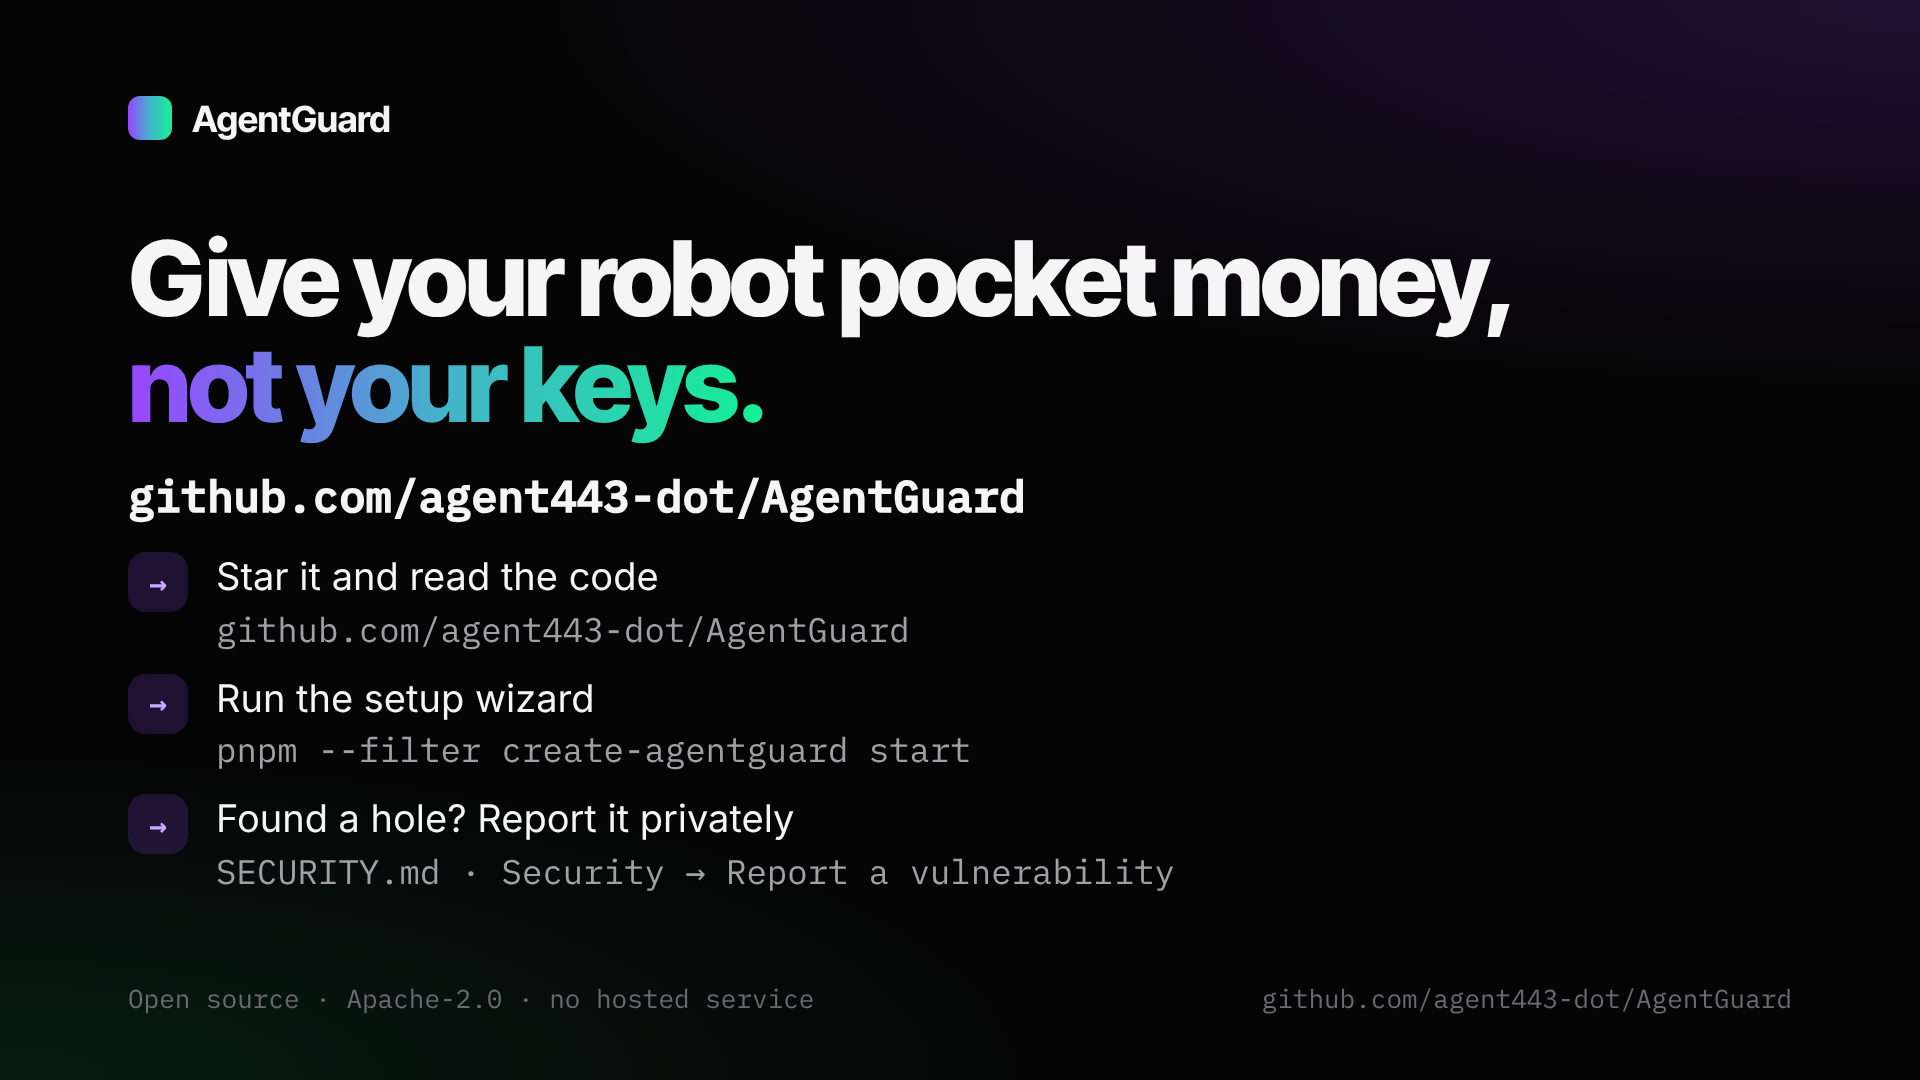
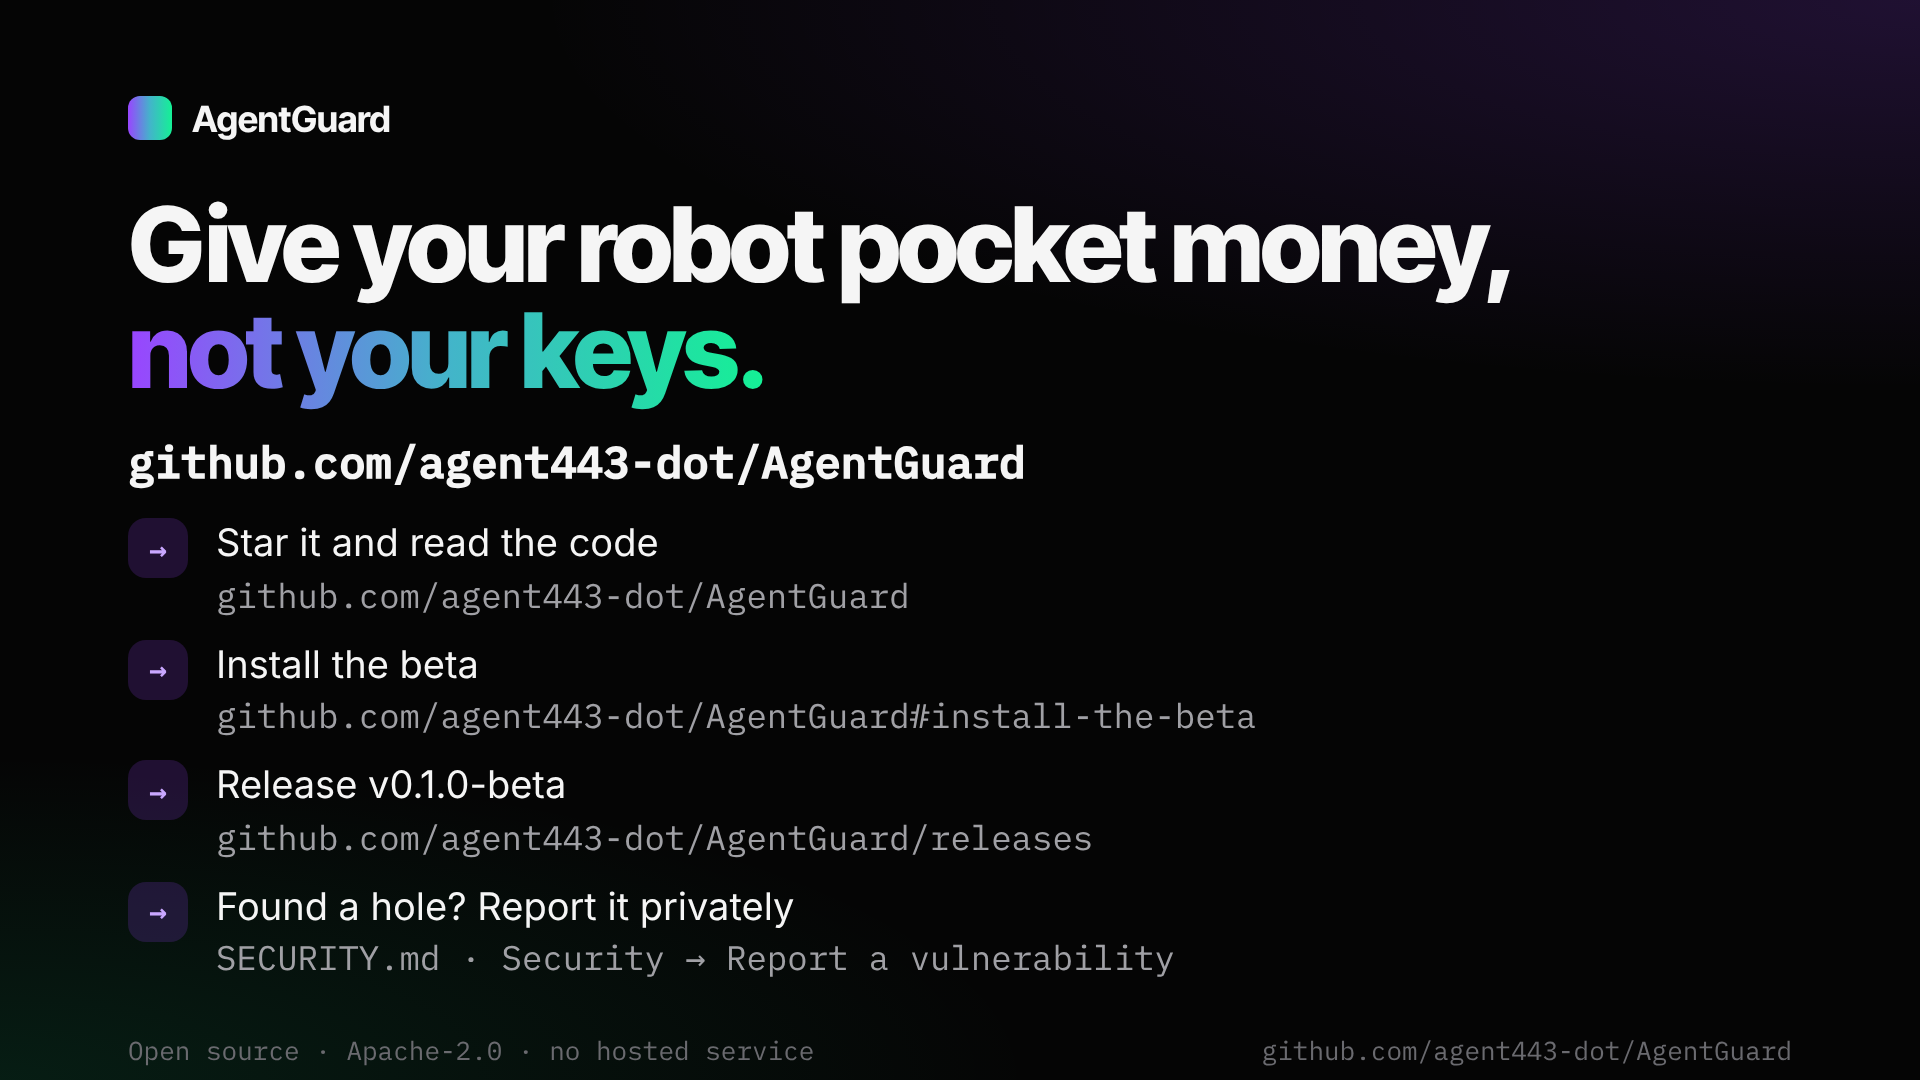
docs(content): how-to video for the public beta v0.1.0-beta
No external audit yet, start small (cap 20, at most 50), install and
release links, receipts marked optional, images re-rendered from main.

Claude-Session: https://claude.ai/code/session_01JbATMytMNnHUL4QXAAVvGh

diff --git a/marketing/videos/how-to.md b/marketing/videos/how-to.md
@@ -7,7 +7,7 @@
 | Format        | Horizontal 16:9, 1920×1080 master; vertical 9:16 cut from the same edit                      |
 | Length        | about 2:40                                                                                   |
 | Presenter     | None. Voice only, over futuristic visuals and real product screens                           |
-| Facts as of   | `main` at `04c0e0c` (2026-11-09): live on Robinhood Chain and Solana, Base next              |
+| Facts as of   | `main` at `4f4ee3f`, release `v0.1.0-beta` (2026-11-09): public beta, live on Robinhood Chain and Solana, Base next, no external audit yet |
 | Status        | ready to produce                                                                             |
 
 ## The idea: a boot sequence
@@ -53,7 +53,7 @@ Shield one. Your rules. How much per payment. How much per day. Which websites. 
 
 Shield two. A practice run. Before any money moves, I play the payment in a practice world, to see what it would really do. Not what the robot says it does.
 
-Shield three. Your yes. A big payment? Your phone lights up on Telegram. You say yes, or no. If the price suddenly jumps, or the payee changes, I ask you too.
+Shield three. Your yes. A big payment? Your phone lights up on Telegram. You say yes, or no. If the price suddenly doubles, or the payee changes, I ask you too.
 
 Shield four. The lock. Your money sits in your own vault, and only your Phantom wallet controls it. A lock built into the blockchain lets out only a little each day. Even if someone breaks me… the lock holds.
 
@@ -71,16 +71,16 @@ Move four. Happy? Pick your limits in Telegram, allow the sites you trust, and s
 
 Got a big job? Give the robot a budget for that one task, with its own limit and an expiry. Paying too fast? A breaker trips.
 
-Live today, on Robinhood Chain and Solana. Base is next.
+Public beta. Live today, on Robinhood Chain and Solana. Base is next.
 
-I'm new, and I'm open source. Every line of code, and every known risk, is out in the open.
+I'm new, and I'm open source. No outside audit yet, so start small: twenty a day is the default. Every line of code, and every known risk, is out in the open.
 
 [beat] Robots are getting wallets. Give them pocket money. Not your keys.
 
 AgentGuard. [beat] Boot yours.
 ```
 
-About 420 words, about 2:40 at a cinematic pace.
+About 440 words, about 2:45 at a cinematic pace.
 
 ## Script to paste — Português (PT-BR)
 
@@ -103,7 +103,7 @@ Escudo um. As suas regras. Quanto por pagamento. Quanto por dia. Quais sites. Qu
 
 Escudo dois. Um ensaio. Antes de qualquer dinheiro sair, eu jogo o pagamento num mundo de treino, para ver o que ele faria de verdade. Não o que o robô diz que faz.
 
-Escudo três. O seu sim. Pagamento grande? O seu celular acende no Telegram. Você diz sim, ou não. Se o preço dispara de repente, ou quem recebe muda, eu também pergunto para você.
+Escudo três. O seu sim. Pagamento grande? O seu celular acende no Telegram. Você diz sim, ou não. Se o preço dobra de repente, ou quem recebe muda, eu também pergunto para você.
 
 Escudo quatro. A tranca. O seu dinheiro fica no seu próprio cofre, e só a sua carteira Phantom controla ele. Uma tranca embutida na blockchain deixa sair só um pouquinho por dia. Mesmo que alguém me quebre… a tranca segura.
 
@@ -121,9 +121,9 @@ Movimento quatro. Gostou? Escolha os seus limites no Telegram, libere os sites e
 
 Tem um trabalho grande? Dê ao robô um orçamento só para aquela tarefa, com limite e prazo próprios. Pagando rápido demais? Um disjuntor desarma.
 
-No ar hoje, na Robinhood Chain e na Solana. A Base é a próxima.
+Beta público. No ar hoje, na Robinhood Chain e na Solana. A Base é a próxima.
 
-Eu sou novo, e sou open source. Cada linha de código, e cada risco conhecido, está à vista de todos.
+Eu sou novo, e sou open source. Ainda não tenho auditoria externa, então comece pequeno: vinte por dia é o padrão. Cada linha de código, e cada risco conhecido, está à vista de todos.
 
 [beat] Os robôs estão ganhando carteiras. Dê a eles uma mesada. Não as suas chaves.
 
@@ -166,16 +166,16 @@ HUD line per scene is in the table.
 | 14  | 1:57–2:06 | Move three. Shadow mode…                          | `MOVE 03 // SHADOW MODE`          | **AI:** the robot paying with ghost-like translucent coins of light that vanish before they land (no symbols); a counter of "would-have-spent" glows. Then `10-telegram.png` row 1 | Muffled, echoing version of the pulse |
 | 15  | 2:06–2:14 | Move four. Happy? Pick your limits…               | `MOVE 04 // LIVE`                 | `10-telegram.png`, rows 2–5                                                                                                                            | Full beat returns                       |
 | 16  | 2:14–2:22 | Got a big job? … A breaker trips.                 | `ARMOUR // TASK BUDGET · BREAKER` | `11-extras.png`                                                                                                                                        | Electric "trip" click                   |
-| 17  | 2:22–2:27 | Live today, on Robinhood Chain and Solana. Base is next. | `NETWORKS // 2 LIVE`       | `12-site-chains.png`                                                                                                                                   | Music at its fullest                    |
-| 18  | 2:27–2:33 | I'm new, and I'm open source…                     | `SOURCE // OPEN`                  | **AI:** flying through a corridor of floating, unreadable glowing code glyphs. Then `02-site-hero.png`                                                   | Pulls back to pads                      |
-| 19  | 2:33–2:40 | Robots are getting wallets… AgentGuard. Boot yours. | `AGENTGUARD // READY`           | **AI:** the robot from scene 2 walks into the light holding a small glowing card (pocket money). Fade to `13-cta.png`                                    | Final hit, ring out                     |
+| 17  | 2:22–2:27 | Public beta. Live today, on Robinhood Chain and Solana. Base is next. | `v0.1.0-BETA // 2 NETWORKS LIVE` | `12-site-chains.png`                                                                                                                                   | Music at its fullest                    |
+| 18  | 2:27–2:38 | I'm new, and I'm open source. No outside audit yet, so start small…  | `NO EXTERNAL AUDIT // START SMALL` | **AI:** flying through a corridor of floating, unreadable glowing code glyphs. Then `14-beta.png`, held still                                           | Pulls back to pads                      |
+| 19  | 2:38–2:45 | Robots are getting wallets… AgentGuard. Boot yours. | `AGENTGUARD // READY`           | **AI:** the robot from scene 2 walks into the light holding a small glowing card (pocket money). Fade to `13-cta.png`                                    | Final hit, ring out                     |
 
 Scene 14 uses "coins of light": keep them plain discs with no symbol, and if any render looks like a
 crypto coin or token, regenerate it or use glowing cards instead.
 
 ## Images (rendered, `assets/howto/`, 1920×1080)
 
-Rendered from the site on `main` (Solana live) and the repository's real commands:
+Rendered from the site on `main` (public beta, Solana live) and the repository's real commands:
 `git show origin/main:site/index.html > /tmp/main-site.html` then
 `AG_SITE=/tmp/main-site.html node marketing/videos/assets/src/render.cjs howto`.
 
@@ -191,9 +191,10 @@ Rendered from the site on `main` (Solana live) and the repository's real command
 | `08-four-moves.png`    | The four moves                                                                 |
 | `09-terminal.png`      | The two real commands: the setup wizard and the MCP setup                      |
 | `10-telegram.png`      | The real bot commands: `/mode`, `/policy`, `/allow`, `/report`, `/kill`        |
-| `11-extras.png`        | Task budgets, the breaker, price jump / new payee, receipts                    |
+| `11-extras.png`        | Task budgets, the breaker, price jump / new payee, optional signed receipts    |
 | `12-site-chains.png`   | Robinhood Chain and Solana live, Base next                                     |
-| `13-cta.png`           | Repo, the wizard, private security reports                                     |
+| `13-cta.png`           | Install the beta, the release, private security reports                        |
+| `14-beta.png`          | Public beta v0.1.0-beta: no external audit, start small (cap 20, at most 50)   |
 | `thumb.png`            | "Pocket money. Not your keys." (kicker: HOW TO USE AGENTGUARD)                 |
 
 No image shows a key, token, `.env` or a real address.
@@ -214,19 +215,20 @@ spelling of: AgentGuard, x402, Phantom, Telegram, Robinhood Chain, Solana, Claud
 ## Description (EN)
 
 ```
-AI voice and AI-generated visuals. AgentGuard is open source (Apache-2.0) and self-hosted: there is no hosted AgentGuard service.
-Early software: read the known risks in docs/final-report.md before you put money behind it.
-Code: https://github.com/agent443-dot/AgentGuard
-Self-host: https://github.com/agent443-dot/AgentGuard/blob/main/docs/self-host.md
+AI voice and AI-generated visuals. AgentGuard v0.1.0-beta is a public beta: open source (Apache-2.0), self-hosted, no hosted AgentGuard service.
+No external audit yet, only internal reviews. Start with small amounts: the default daily cap is 20, at most 50. Known risks: docs/final-report.md.
+Install the beta: https://github.com/agent443-dot/AgentGuard#install-the-beta
+Release: https://github.com/agent443-dot/AgentGuard/releases/tag/v0.1.0-beta
 Security reports, privately: https://github.com/agent443-dot/AgentGuard/security
 ```
 
 ## Descrição (PT-BR)
 
 ```
-Voz e imagens geradas por IA. O AgentGuard é open source (Apache-2.0) e auto-hospedado: não existe serviço hospedado do AgentGuard.
-Software novo: leia os riscos conhecidos em docs/final-report.md antes de colocar dinheiro nele.
-Código: https://github.com/agent443-dot/AgentGuard
+Voz e imagens geradas por IA. O AgentGuard v0.1.0-beta é um beta público: open source (Apache-2.0), auto-hospedado, sem serviço hospedado do AgentGuard.
+Ainda sem auditoria externa, só revisões internas. Comece com valores pequenos: o limite diário padrão é 20, no máximo 50. Riscos conhecidos: docs/final-report.md.
+Instale o beta: https://github.com/agent443-dot/AgentGuard#install-the-beta
+Release: https://github.com/agent443-dot/AgentGuard/releases/tag/v0.1.0-beta
 Guia em português: https://github.com/agent443-dot/AgentGuard/blob/main/docs/self-host.pt-BR.md
 Relatos de segurança, em privado: https://github.com/agent443-dot/AgentGuard/security
 ```
@@ -239,8 +241,8 @@ Your AI agent can pay now. Should it hold your keys? No.
 AgentGuard: five shields on every payment. Your rules, a practice run, your yes on big ones, a daily lock enforced onchain, and one button to stop it all.
 
 Set up with one wizard, test in shadow mode, then go live.
-Live on Robinhood Chain and Solana.
-https://github.com/agent443-dot/AgentGuard
+Public beta v0.1.0-beta, live on Robinhood Chain and Solana. No external audit yet: start small.
+https://github.com/agent443-dot/AgentGuard#install-the-beta
 ```
 
 ## Post no X (PT-BR)
@@ -251,8 +253,8 @@ Seu agente de IA já pode pagar. Ele deveria ter as suas chaves? Não.
 AgentGuard: cinco escudos em cada pagamento. Suas regras, um ensaio, o seu sim nos grandes, uma tranca diária na blockchain e um botão para parar tudo.
 
 Instale com um assistente, teste no modo sombra e vá para o ao vivo.
-No ar na Robinhood Chain e na Solana.
-https://github.com/agent443-dot/AgentGuard
+Beta público v0.1.0-beta, no ar na Robinhood Chain e na Solana. Ainda sem auditoria externa: comece pequeno.
+https://github.com/agent443-dot/AgentGuard#install-the-beta
 ```
 
 ## Fact check (against `main`, 2026-11-09)
@@ -270,6 +272,8 @@ https://github.com/agent443-dot/AgentGuard
 | Move 3: shadow mode signs nothing, shows would-have-spent | `mode: "shadow"`; `/mode live` shows what shadow would have spent                      | `SPEC.md`, `packages/telegram-bot/README.md`            |
 | Move 4: `/policy`, `/allow`, `/mode live`, `/report`   | Bot owner commands (CR-011)                                                               | `packages/telegram-bot/README.md`                       |
 | Task budget with limit and expiry; breaker             | `start_task` mandates; `maxPaymentsPerMinute` (default 10) trips the breaker              | `packages/mcp-server/README.md`, `SPEC.md`              |
-| Receipts anyone can check                              | One signed receipt per executed intent; public key at `/v1/receipts/key`                  | `SPEC.md`                                               |
-| Live on Robinhood Chain and Solana; Base next          | Launch status on `main`                                                                   | `README.md` (main), `docs/final-report.md` (main)       |
+| Price doubles or payee changes → asks you              | Pinned x402 payees, flagged above twice the last price                                    | `CHANGELOG.md` v0.1.0-beta                              |
+| Signed receipts (on screen only, optional)             | Ed25519 receipts, off until `RECEIPT_SIGNING_KEY_FILE` is set                             | `CHANGELOG.md` "Built in, off until you configure them" |
+| Public beta; live on Robinhood Chain and Solana; Base next | Release v0.1.0-beta                                                                   | `README.md`, `CHANGELOG.md` (main)                      |
+| No external audit; start small, default 20, at most 50 | Beta notice                                                                               | `README.md` (main)                                      |
 | Open source, known risks in the open                   | Apache-2.0; Known risks section                                                           | `LICENSE`, `docs/final-report.md`                       |
